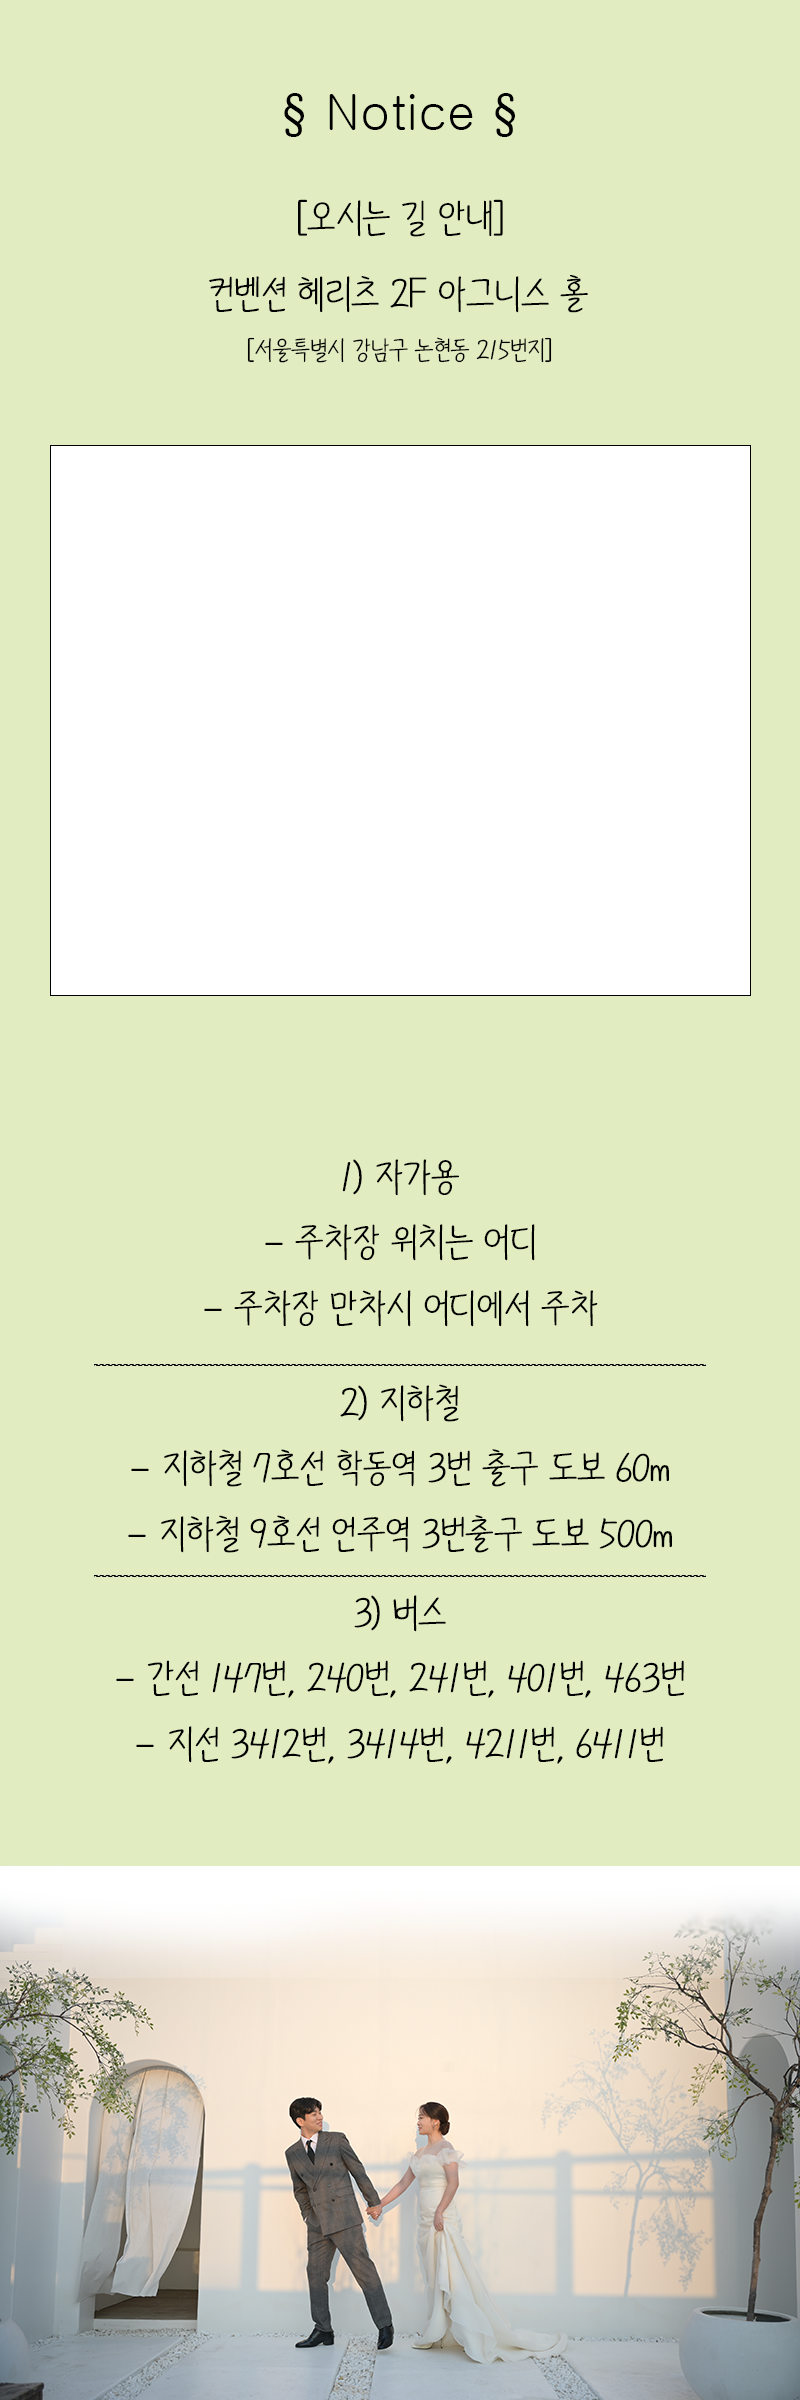
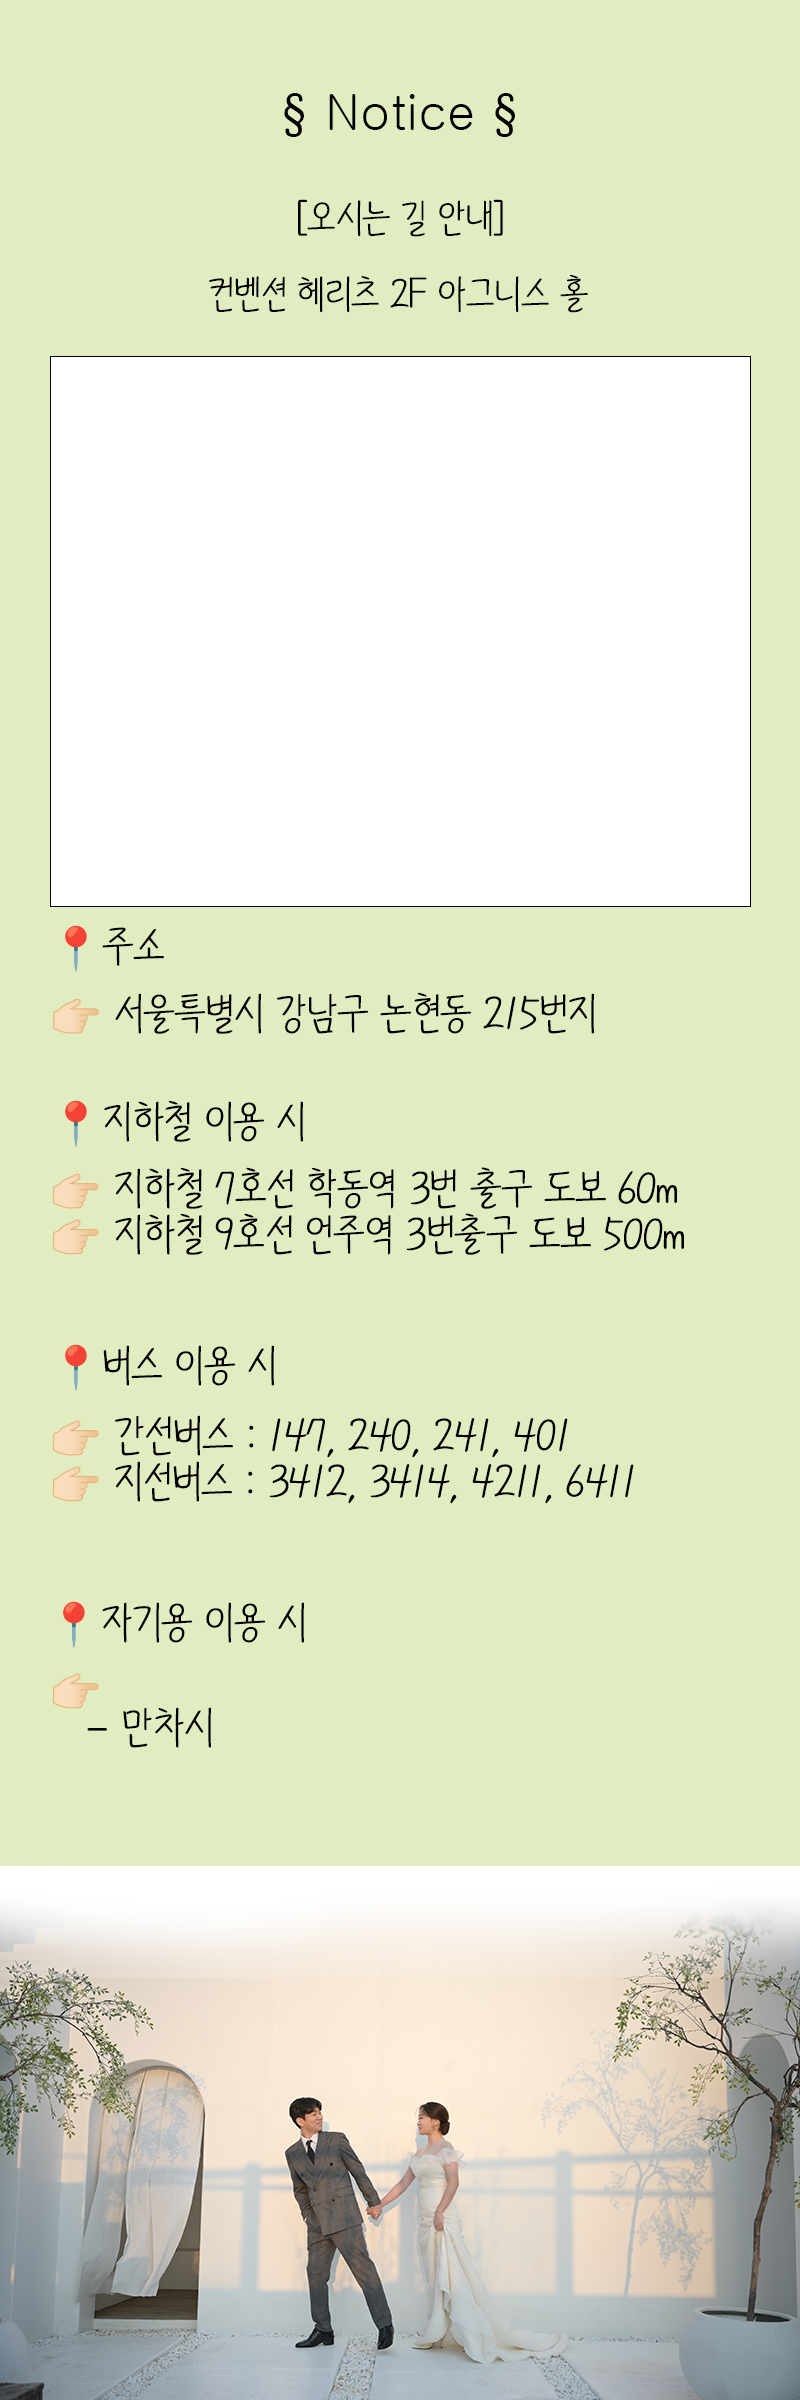
update

diff --git a/css/section.css b/css/section.css
@@ -187,7 +187,7 @@ margin-top: -2%;
 }
 .notice_map {
   position: absolute;
-  top: 17.5%;
+  top: 13.7%;
   left: 10%;
   z-index: 100;
   width: 100%;
